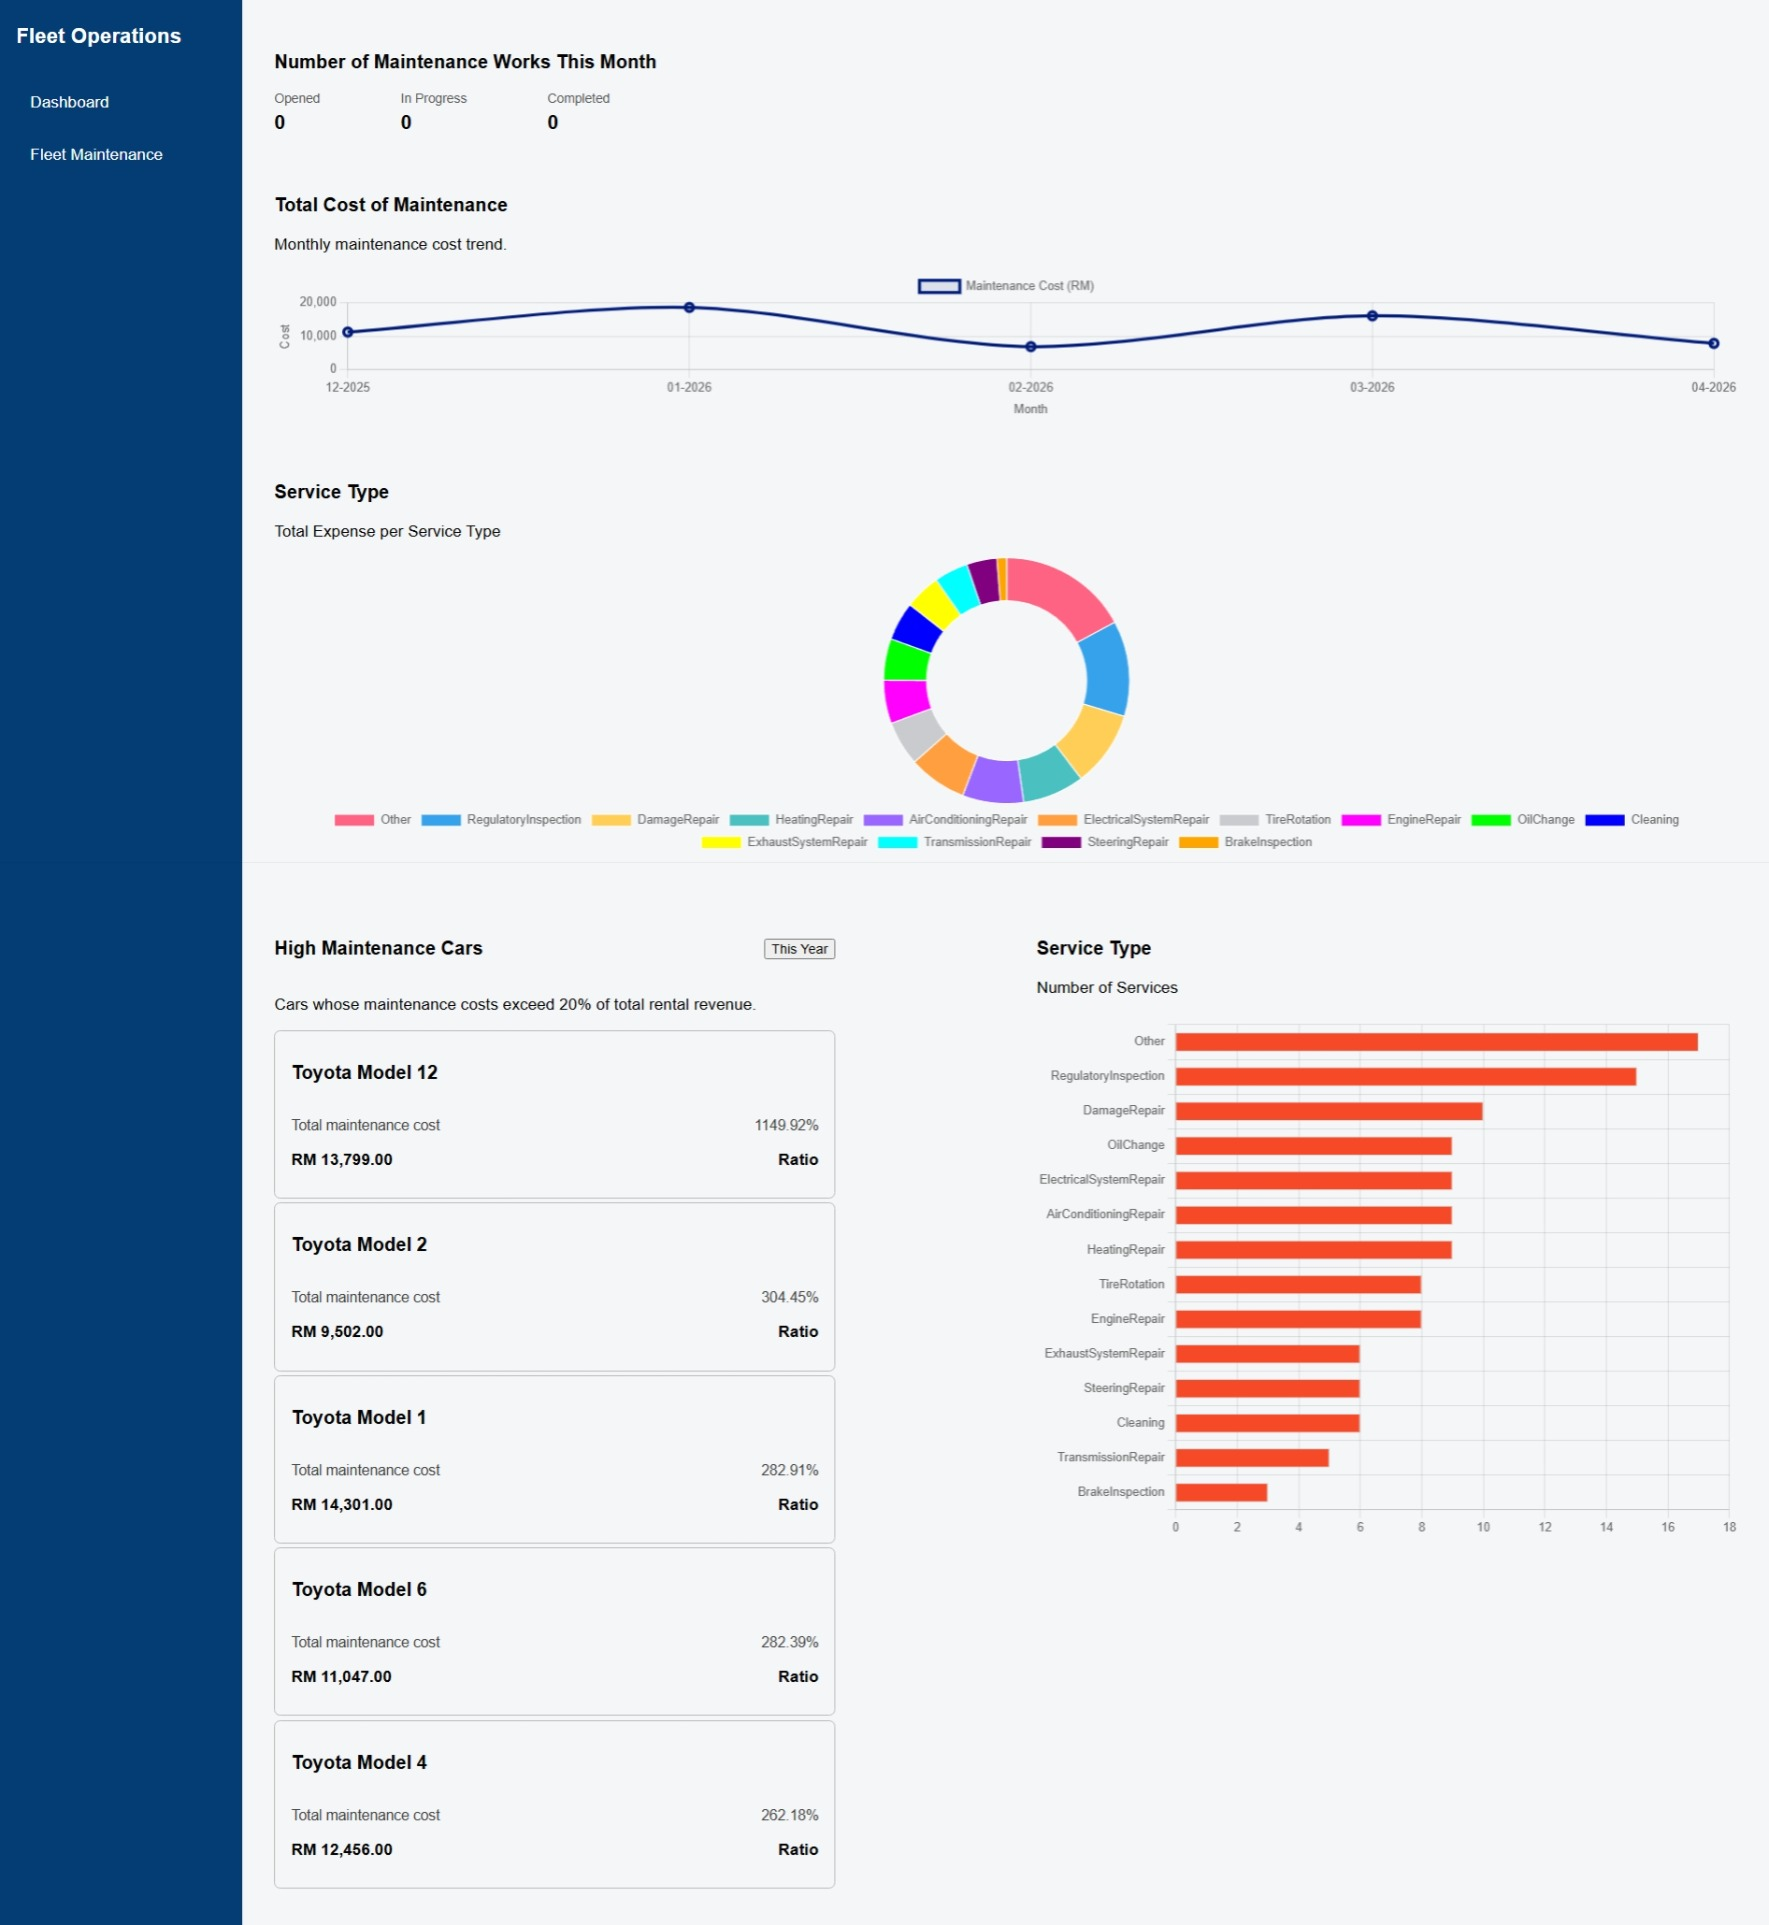
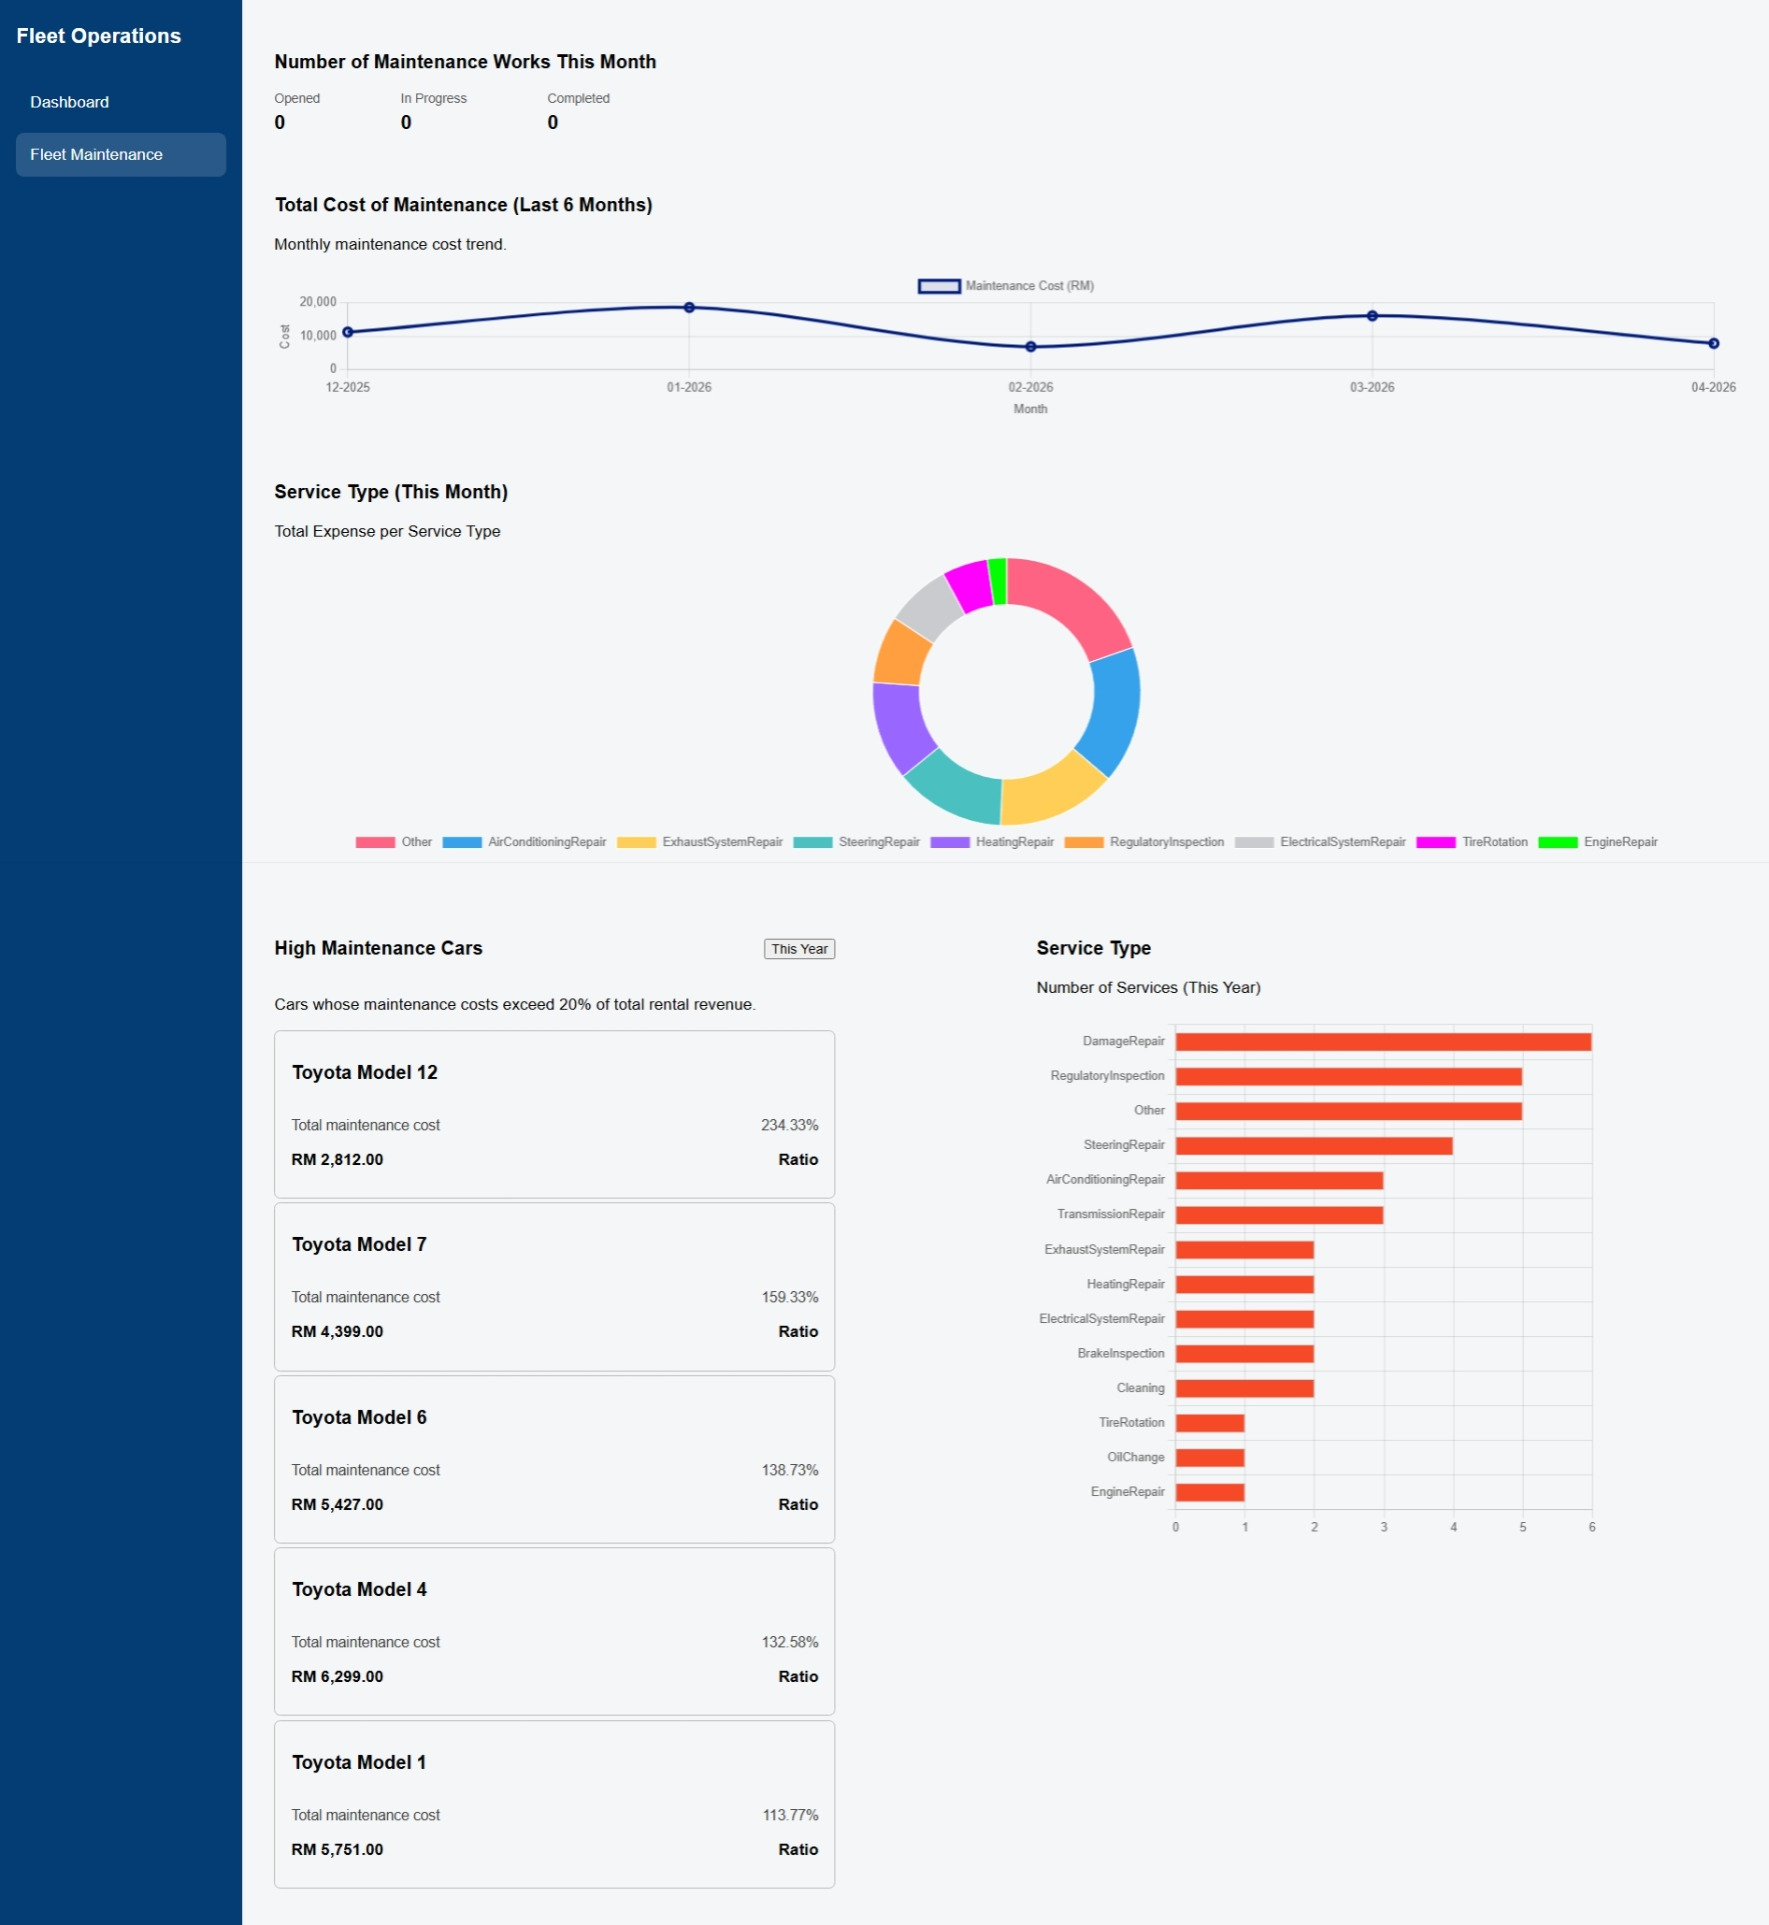
logic fixes, ui improvement

diff --git a/Controllers/DashboardController.cs b/Controllers/DashboardController.cs
@@ -1,9 +1,5 @@
 using Microsoft.AspNetCore.Mvc;
 using OperationsReportingDashboard.Data;
-using System;
-using System.Linq;
-using System.Text.Json;
-using OperationsReportingDashboard.Models;
 
 namespace OperationsReportingDashboard.Controllers
 {
@@ -72,24 +68,6 @@ namespace OperationsReportingDashboard.Controllers
                 })
                 .ToList();
 
-            // Fetch fuel price
-            var client = _httpClientFactory.CreateClient();
-            var json = await client.GetStringAsync("https://api.data.gov.my/data-catalogue?id=fuelprice");
-
-            var fuelPrices = JsonSerializer.Deserialize<List<FuelPrice>>(json);
-            
-            // Latest fuel price
-            var latestFuelPrice = fuelPrices?
-                .Where(f => f.SeriesType == "level")
-                .OrderByDescending(f => f.Date)
-                .FirstOrDefault();
-
-            // Fuel prices for the last 6 months
-            var lastSixMonthsFuelPrices = fuelPrices ?
-                .Where(f => f.Date >= DateTime.Now.AddMonths(-6) && f.SeriesType == "level")
-                .OrderBy(f => f.Date)
-                .ToList();
-
             // Pass the calculated data to the view using ViewBag
             ViewBag.TotalRevenue = totalRevenue;
             ViewBag.TotalBookings = totalBookings;
@@ -101,11 +79,6 @@ namespace OperationsReportingDashboard.Controllers
             ViewBag.PreviousMonthRevenue = previousMonthRevenue;
             ViewBag.CurrentMonthRevenue = currentMonthRevenue;
             ViewBag.MonthlyRevenueByCar = monthlyRevenueByCar;
-            ViewBag.LatestFuelPrices = latestFuelPrice;
-            ViewBag.Ron97 = lastSixMonthsFuelPrices?.Select(f => f.Ron97).ToList();
-            ViewBag.Ron95 = lastSixMonthsFuelPrices?.Select(f => f.Ron95).ToList();
-            ViewBag.Diesel = lastSixMonthsFuelPrices?.Select(f => f.DieselEastMalaysia).ToList();
-            ViewBag.FuelDates = lastSixMonthsFuelPrices?.Select(f => f.Date.ToString("dd MMM")).ToList();
             
             return View();
         }

diff --git a/Controllers/FleetMaintenanceController.cs b/Controllers/FleetMaintenanceController.cs
@@ -31,7 +31,9 @@ namespace OperationsReportingDashboard.Controllers
 
             // Total expense per ServiceType
             var expensePerServiceType = maintenanceRecords
-                .Where(m => m.TotalCost.HasValue)
+                .Where(m => m.TotalCost.HasValue
+                    && m.ServiceDate.HasValue 
+                    && m.ServiceDate.Value.Month == currentMonth)
                 .GroupBy(m => m.ServiceType)
                 .Select(g => new
                 {
@@ -44,6 +46,8 @@ namespace OperationsReportingDashboard.Controllers
 
             // Calculate number of services per ServiceType
             var serviceCountPerType = maintenanceRecords
+                .Where(m => m.ServiceDate.HasValue 
+                    && m.ServiceDate.Value.Year == currentYear)
                 .GroupBy(m => m.ServiceType)
                 .Select(g => new
                 {
@@ -76,7 +80,7 @@ namespace OperationsReportingDashboard.Controllers
                 .ToList();
 
 
-            // Identify high-maintenance cars
+            // Identify high-maintenance cars (this year)
             // Criteria: Cars whose maintenance costs exceed a threshold (20%) relative to their rental revenue
             var highMaintenanceCars = _context.Cars
                 .Include(c => c.Bookings)
@@ -85,10 +89,15 @@ namespace OperationsReportingDashboard.Controllers
                     carId = car.Id,
                     carName = car.Make + " " + car.Model,
 
-                    totalRentalRevenue = car.Bookings.Sum(b => b.TotalPrice),
+                    totalRentalRevenue = car.Bookings
+                        .Where(b => b.StartDate.Year == currentYear)
+                        .Sum(b => b.TotalPrice),
 
                     totalMaintenanceCost = _context.Maintenances
-                        .Where(m => m.CarId == car.Id)
+                        .Where(
+                            m => m.CarId == car.Id &&
+                            m.ServiceDate.HasValue &&
+                            m.ServiceDate.Value.Year == currentYear)
                         .Sum(m => m.TotalCost ?? 0)
                 })
                 .AsEnumerable()

diff --git a/Program.cs b/Program.cs
@@ -132,7 +132,7 @@ using (var scope = app.Services.CreateScope())
         for (int i = 0; i < 120; i++)
         {
             var serviceDate = DateTime.Now.AddDays(-random.Next(0, 365));
-
+            
             db.Maintenances.Add(new Maintenance
             {
                 CarId = random.Next(1, 16),

diff --git a/obj/Debug/net10.0/OperationsReportingDashboard.AssemblyInfo.cs b/obj/Debug/net10.0/OperationsReportingDashboard.AssemblyInfo.cs
@@ -13,7 +13,7 @@ using System.Reflection;
 [assembly: System.Reflection.AssemblyCompanyAttribute("OperationsReportingDashboard")]
 [assembly: System.Reflection.AssemblyConfigurationAttribute("Debug")]
 [assembly: System.Reflection.AssemblyFileVersionAttribute("1.0.0.0")]
-[assembly: System.Reflection.AssemblyInformationalVersionAttribute("1.0.0+8c02d1fccfb15393e736ff1ba8ec33c6be3aac46")]
+[assembly: System.Reflection.AssemblyInformationalVersionAttribute("1.0.0+ab76ed3cacc1f938df5ee9893b53ef23af5c73ad")]
 [assembly: System.Reflection.AssemblyProductAttribute("OperationsReportingDashboard")]
 [assembly: System.Reflection.AssemblyTitleAttribute("OperationsReportingDashboard")]
 [assembly: System.Reflection.AssemblyVersionAttribute("1.0.0.0")]

diff --git a/README.md b/README.md
@@ -1,5 +1,5 @@
 # Operations Reporting Dashboard
-Built with ASP.NET Core MVC, Entity Framework Core and Chart.js, the system assists in managing assets and operations of a company, which in this case, is a car rental company. 
+The system is built using ASP.NET Core MVC, Entity Framework Core, and Chart.js. It is designed to support the management of company assets and operations, specifically tailored for a car rental business. 
 
 - Operational Performance
     - Monthly revenue
@@ -13,9 +13,28 @@ Built with ASP.NET Core MVC, Entity Framework Core and Chart.js, the system assi
     - High Maintenance Cars
 
 
-## Prerequisite
-- ASP.NET Core MVC,
+## Setup Instructions
+**Prerequisite**
+- ASP.NET
 - ChartJS
+
+1. **Clone the repository**
+```
+git clone https://github.com/jackleZac/operations-reporting-dashboard.git
+cd OperationsReportingDashboard
+```
+2. Install **dotnet EF** (CLI tool for managing database)
+```
+dotnet tool install --global dotnet-ef
+```
+3. Compile the project into executable files
+```
+dotnet build
+```
+4. Run the project
+```
+dotnet run
+```
 
 ## User Interface
 ![Dashboard screenshot](screenshots/dashboard.jpeg)